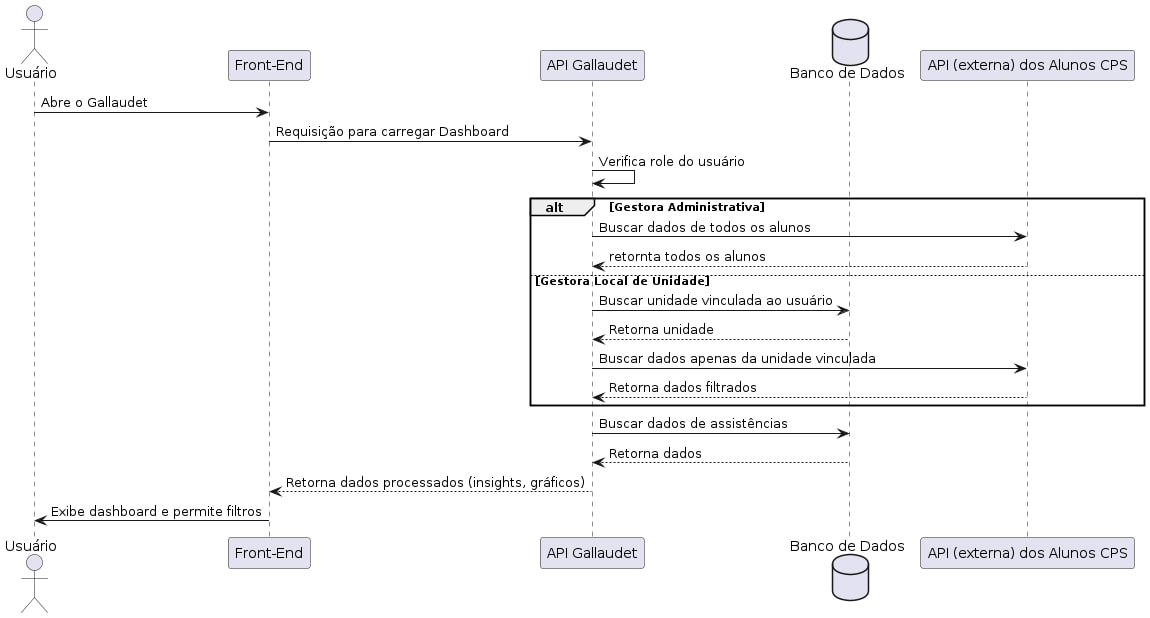
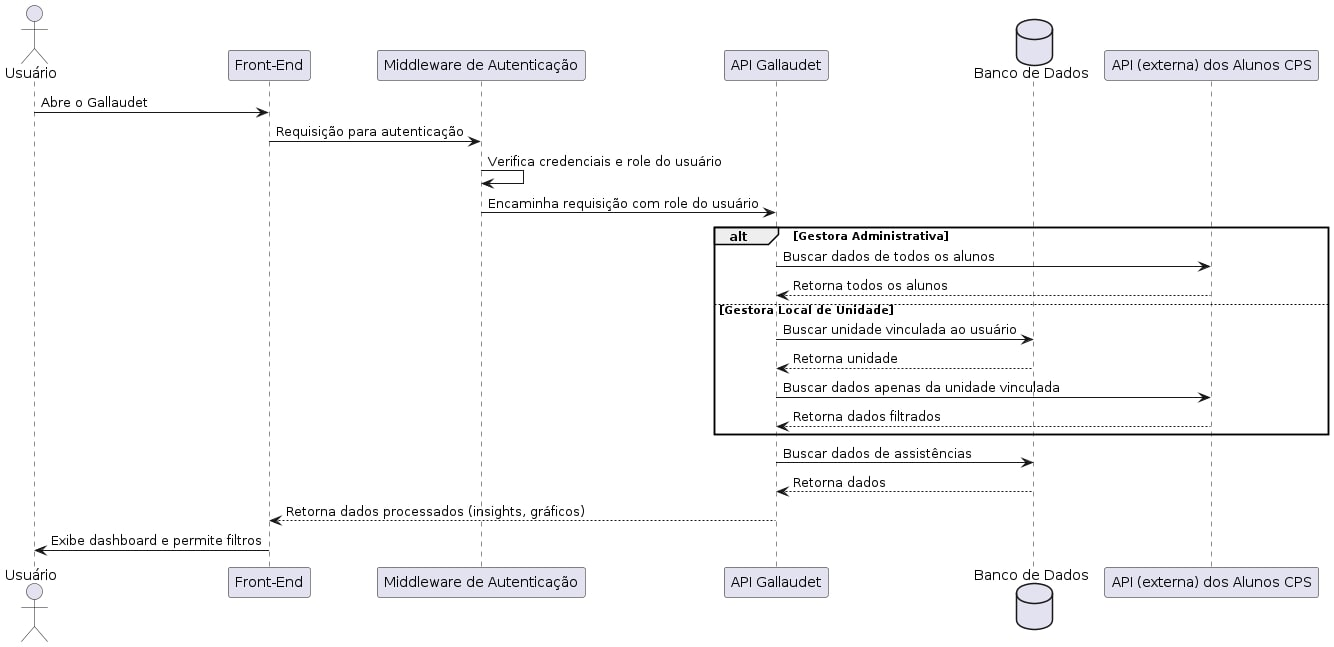
docs: adiciona nova camada à sequência de carregamento do dashboard

diff --git a/docs/project.md b/docs/project.md
@@ -1081,7 +1081,6 @@ Controller -- > (Observação: foi adicionado um espaço antes de ">", senão o 
 
 <!-- 
 Código PlantUML que gera o diagrama acima:
-Código PlantUML que gera o diagrama acima:
 @startuml
 
 actor Usuario
@@ -1126,7 +1125,7 @@ FE -- > (Observação: foi adicionado um espaço antes de ">", senão o comentá
 
   <img 
     src="./assets/section5/5.2_sequencies_diagrams/dashboard_load.jpg" alt="Sequências do carregamento das dashboards do Gallaudet" 
-    style="max-width: 1000px; width: 100%; height: auto;">
+    style="max-width: 1100px; width: 100%; height: auto;">
 
   <sup>Fonte: Material produzido pelos autores (2025).</sup>
 </div>  
@@ -1137,16 +1136,18 @@ Código PlantUML que gera o diagrama acima:
 
 actor "Usuário" as usuario
 participant "Front-End" as frontend
+participant "Middleware de Autenticação" as middleware
 participant "API Gallaudet" as api
 database "Banco de Dados" as db
 participant "API (externa) dos Alunos CPS" as apiAlunos
 
 usuario -> frontend : Abre o Gallaudet
-frontend -> api : Requisição para carregar Dashboard
-api -> api : Verifica role do usuário
+frontend -> middleware : Requisição para autenticação
+middleware -> middleware : Verifica credenciais e role do usuário
+middleware -> api : Encaminha requisição com role do usuário
 alt Gestora Administrativa
     api -> apiAlunos : Buscar dados de todos os alunos
-    apiAlunos -- > (Observação: foi adicionado um espaço antes de ">", senão o comentário seria quebrado) api : retornta todos os alunos
+    apiAlunos -- > (Observação: foi adicionado um espaço antes de ">", senão o comentário seria quebrado) api : Retorna todos os alunos
 else Gestora Local de Unidade
     api -> db : Buscar unidade vinculada ao usuário
     db -- > (Observação: foi adicionado um espaço antes de ">", senão o comentário seria quebrado) api : Retorna unidade
@@ -1163,9 +1164,11 @@ frontend -> usuario : Exibe dashboard e permite filtros
 @enduml
 -->
 
-&emsp;Uma característica notável desse diagrama é a mensagem recursiva dentro da API, utilizada para a verificação da role do usuário. Além da verificação de role, o sistema também valida a unidade vinculada ao usuário, especialmente para as Gestoras Locais de Unidade, garantindo que os dados apresentados no dashboard sejam filtrados de acordo com os acessos permitidos. Esse comportamento impede que usuários sem permissão visualizem informações de unidades às quais não pertencem.
+&emsp;Uma característica notável desse diagrama é a introdução de um middleware de autenticação, que agora centraliza a verificação de credenciais e a determinação da role do usuário antes que a requisição chegue à API. Isso garante uma separação clara entre autenticação e a lógica de negócios, melhorando a segurança e organização do sistema. Com essa abordagem, a API já recebe a requisição sabendo a role do usuário, eliminando a necessidade de uma verificação recursiva interna.
 
-&emsp;É importante destacar que essas verificações de autorização e autenticação ocorrem em praticamente todos os endpoints do sistema, sendo implementadas por um middleware de autenticação e autorização. No entanto, neste diagrama de sequência específico, optamos por evidenciar essas verificações porque são essenciais para a funcionalidade do dashboard. Diferente de outras interações onde essa verificação é uma rotina padrão e repetitiva, aqui ela define completamente o comportamento do sistema, garantindo que as informações carregadas estejam de acordo com as permissões do usuário.
+&emsp;Além disso, esse middleware assegura que todas as requisições que chegam à API já passaram por uma camada de validação. Embora essa camada esteja presente em todo o sistema, optamos por não exibi-la em outros diagramas de sequência onde sua presença era menos relevante. No entanto, neste fluxo específico, o middleware tem um papel quase central, pois os dados trazidos para a dashboard dependem inteiramente do tipo de usuário autenticado. Isso reforça a importância da autenticação e autorização na filtragem das informações apresentadas, garantindo que os usuários acessem apenas os dados aos quais têm permissão. Vale ressaltar que esse middleware já havia sido representado no diagrama de componentes. Aqui, sua exibição explícita é essencial para demonstrar como ele impacta diretamente o carregamento dos dados do dashboard.
+
+
 
 **4. Cadastro e Gestão de Usuários (RF01, RF02, RF05)**
 
@@ -1182,6 +1185,7 @@ frontend -> usuario : Exibe dashboard e permite filtros
 </div>  
 
 <!-- 
+Código PlantUML que gera o diagrama acima:
 @startuml
 
 actor Usuário as user
